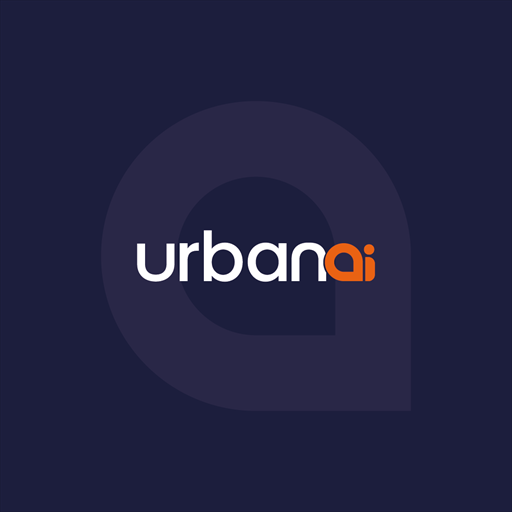
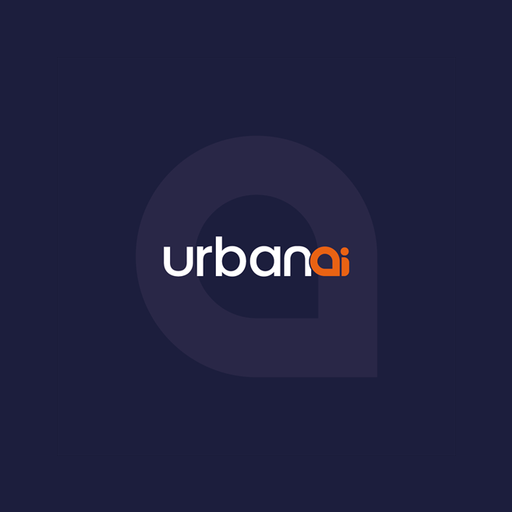
feat(pwa): manifest completo, ícones maskable/monochrome e splash do iOS
Gera a partir do logo existente (sem arte nova): ícones 48-512, maskable 192/512, monochrome, apple-touch 120-180, badge de notificação e 18 telas de abertura do iOS. Atalhos: Dashboard, Imóveis, Notificações e Calendário (Admin sai do manifest).

Changed region(s): [[0.25, 0.4375, 0.75, 0.5625]]

diff --git a/Urban-front-main/src/app/lib/pwaSplashScreens.generated.ts b/Urban-front-main/src/app/lib/pwaSplashScreens.generated.ts
@@ -1,0 +1,75 @@
+// Gerado por scripts/generate-pwa-assets.mjs. Não edite à mão.
+export const APPLE_STARTUP_IMAGES = [
+  {
+    "url": "/splash/apple-splash-1320x2868.png",
+    "media": "(device-width: 440px) and (device-height: 956px) and (-webkit-device-pixel-ratio: 3) and (orientation: portrait)"
+  },
+  {
+    "url": "/splash/apple-splash-1206x2622.png",
+    "media": "(device-width: 402px) and (device-height: 874px) and (-webkit-device-pixel-ratio: 3) and (orientation: portrait)"
+  },
+  {
+    "url": "/splash/apple-splash-1290x2796.png",
+    "media": "(device-width: 430px) and (device-height: 932px) and (-webkit-device-pixel-ratio: 3) and (orientation: portrait)"
+  },
+  {
+    "url": "/splash/apple-splash-1179x2556.png",
+    "media": "(device-width: 393px) and (device-height: 852px) and (-webkit-device-pixel-ratio: 3) and (orientation: portrait)"
+  },
+  {
+    "url": "/splash/apple-splash-1170x2532.png",
+    "media": "(device-width: 390px) and (device-height: 844px) and (-webkit-device-pixel-ratio: 3) and (orientation: portrait)"
+  },
+  {
+    "url": "/splash/apple-splash-1125x2436.png",
+    "media": "(device-width: 375px) and (device-height: 812px) and (-webkit-device-pixel-ratio: 3) and (orientation: portrait)"
+  },
+  {
+    "url": "/splash/apple-splash-1242x2688.png",
+    "media": "(device-width: 414px) and (device-height: 896px) and (-webkit-device-pixel-ratio: 3) and (orientation: portrait)"
+  },
+  {
+    "url": "/splash/apple-splash-828x1792.png",
+    "media": "(device-width: 414px) and (device-height: 896px) and (-webkit-device-pixel-ratio: 2) and (orientation: portrait)"
+  },
+  {
+    "url": "/splash/apple-splash-1242x2208.png",
+    "media": "(device-width: 414px) and (device-height: 736px) and (-webkit-device-pixel-ratio: 3) and (orientation: portrait)"
+  },
+  {
+    "url": "/splash/apple-splash-750x1334.png",
+    "media": "(device-width: 375px) and (device-height: 667px) and (-webkit-device-pixel-ratio: 2) and (orientation: portrait)"
+  },
+  {
+    "url": "/splash/apple-splash-640x1136.png",
+    "media": "(device-width: 320px) and (device-height: 568px) and (-webkit-device-pixel-ratio: 2) and (orientation: portrait)"
+  },
+  {
+    "url": "/splash/apple-splash-1488x2266.png",
+    "media": "(device-width: 744px) and (device-height: 1133px) and (-webkit-device-pixel-ratio: 2) and (orientation: portrait)"
+  },
+  {
+    "url": "/splash/apple-splash-1536x2048.png",
+    "media": "(device-width: 768px) and (device-height: 1024px) and (-webkit-device-pixel-ratio: 2) and (orientation: portrait)"
+  },
+  {
+    "url": "/splash/apple-splash-1620x2160.png",
+    "media": "(device-width: 810px) and (device-height: 1080px) and (-webkit-device-pixel-ratio: 2) and (orientation: portrait)"
+  },
+  {
+    "url": "/splash/apple-splash-1640x2360.png",
+    "media": "(device-width: 820px) and (device-height: 1180px) and (-webkit-device-pixel-ratio: 2) and (orientation: portrait)"
+  },
+  {
+    "url": "/splash/apple-splash-1668x2224.png",
+    "media": "(device-width: 834px) and (device-height: 1112px) and (-webkit-device-pixel-ratio: 2) and (orientation: portrait)"
+  },
+  {
+    "url": "/splash/apple-splash-1668x2388.png",
+    "media": "(device-width: 834px) and (device-height: 1194px) and (-webkit-device-pixel-ratio: 2) and (orientation: portrait)"
+  },
+  {
+    "url": "/splash/apple-splash-2048x2732.png",
+    "media": "(device-width: 1024px) and (device-height: 1366px) and (-webkit-device-pixel-ratio: 2) and (orientation: portrait)"
+  }
+] as const;

diff --git a/Urban-front-main/src/app/layout.tsx b/Urban-front-main/src/app/layout.tsx
@@ -29,6 +29,7 @@ import { Analytics } from "./componentes/Analytics";
 import { CookieConsent } from "./componentes/CookieConsent";
 import { PwaInstaller } from "./componentes/PwaInstaller";
 import { ThemeScript } from "./componentes/theme";
+import { APPLE_STARTUP_IMAGES } from "./lib/pwaSplashScreens.generated";
 
 const SITE_URL = process.env.NEXT_PUBLIC_SITE_URL || "https://myurbanai.com";
 const APP_ENV = process.env.NEXT_PUBLIC_APP_ENV;
@@ -46,12 +47,22 @@ export const metadata: Metadata = {
       { url: "/pwa-icon-192.png", type: "image/png", sizes: "192x192" },
       { url: "/pwa-icon-512.png", type: "image/png", sizes: "512x512" },
     ],
-    apple: [{ url: "/apple-touch-icon.png", sizes: "180x180", type: "image/png" }],
+    apple: [
+      { url: "/apple-touch-icon.png", sizes: "180x180", type: "image/png" },
+      { url: "/apple-touch-icon-167.png", sizes: "167x167", type: "image/png" },
+      { url: "/apple-touch-icon-152.png", sizes: "152x152", type: "image/png" },
+      { url: "/apple-touch-icon-120.png", sizes: "120x120", type: "image/png" },
+    ],
   },
   appleWebApp: {
     capable: true,
     title: "Urban AI",
     statusBarStyle: "black-translucent",
+    startupImage: APPLE_STARTUP_IMAGES.map(({ url, media }) => ({ url, media })),
+  },
+  other: {
+    // Chrome/Android: a meta antiga apple-mobile-web-app-capable está depreciada.
+    "mobile-web-app-capable": "yes",
   },
   formatDetection: {
     telephone: false,
